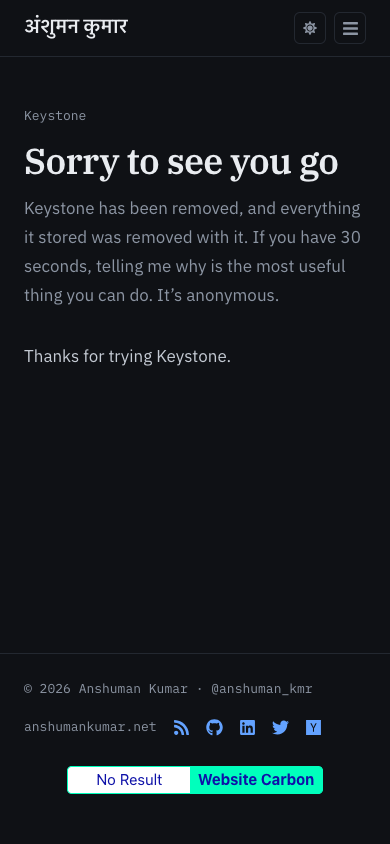
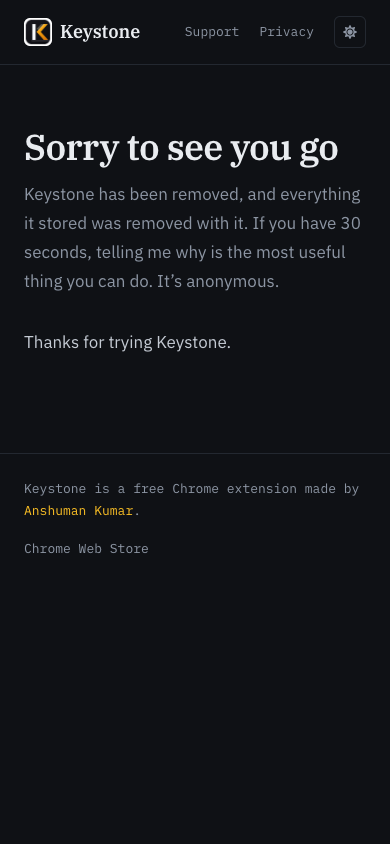
feat(keystone): make the Keystone pages a mini-site of their own
/keystone/support/, /keystone/bye/ and /privacy/keystone/ now use Keystone's own
header (logo, Support, Privacy, theme toggle), footer and amber accent, and the
blog's header and footer are hidden there. Nothing on the blog links to them, so
anshumankumar.net still opens to the blog. Titles read "… · Keystone by
Anshuman Kumar". Screenshots refreshed.

diff --git a/blog/next-blog/components/keystone/keystone-shell.tsx b/blog/next-blog/components/keystone/keystone-shell.tsx
@@ -1,0 +1,39 @@
+import type { ReactNode } from 'react';
+import Link from 'next/link';
+import { ThemeToggle } from '@/components/theme-toggle';
+import { CWS_URL, TIP_URL, hasTipLink } from '@/lib/keystone';
+import { PERSON, SITE_URL } from '@/lib/identity';
+
+/** Keystone's own header and footer, so its pages read as Keystone's site rather than blog pages. */
+export function KeystoneShell({ children }: { children: ReactNode }) {
+  return (
+    <div className="keystone-site flex flex-1 flex-col">
+      <header className="border-b border-border-hairline">
+        <nav className="page-container !py-4 flex items-center justify-between gap-4" aria-label="Keystone">
+          <Link href="/keystone/support/" className="flex items-center gap-2 no-underline" style={{ color: 'var(--text-heading)' }}>
+            {/* eslint-disable-next-line @next/next/no-img-element -- static export, tiny fixed-size icon */}
+            <img src="/keystone/icon128.png" alt="" width={28} height={28} className="rounded-md" />
+            <span className="text-lg font-semibold" style={{ fontFamily: 'var(--font-display)' }}>Keystone</span>
+          </Link>
+          <div className="flex items-center gap-5">
+            <Link href="/keystone/support/" className="meta">Support</Link>
+            <Link href="/privacy/keystone/" className="meta">Privacy</Link>
+            <ThemeToggle />
+          </div>
+        </nav>
+      </header>
+      <div className="flex-1">{children}</div>
+      <footer className="mt-12 border-t border-border-hairline">
+        <div className="page-container !py-6 flex items-center justify-between gap-4 flex-wrap">
+          <p className="meta">
+            Keystone is a free Chrome extension made by <a href={SITE_URL}>{PERSON.name}</a>.
+          </p>
+          <div className="flex items-center gap-4 flex-wrap">
+            {CWS_URL ? <a href={CWS_URL} className="meta" target="_blank" rel="noopener noreferrer">Chrome Web Store</a> : null}
+            {hasTipLink ? <a href={TIP_URL} className="meta" target="_blank" rel="noopener noreferrer">Buy me a coffee</a> : null}
+          </div>
+        </div>
+      </footer>
+    </div>
+  );
+}

diff --git a/blog/next-blog/app/keystone/support/page.tsx b/blog/next-blog/app/keystone/support/page.tsx
@@ -1,11 +1,10 @@
-import Link from 'next/link';
 import { GoogleFormEmbed } from '@/components/keystone/google-form-embed';
 import { pageMetadata } from '@/lib/metadata';
 import { FEEDBACK_FORM } from '@/lib/keystone';
 import { TipJar } from '@/components/keystone/tip-jar';
 
 export const metadata = pageMetadata(
-  'Keystone support and feedback',
+  'Support and feedback',
   'Report a bug, flag a wrong nudge, or suggest an idea for the Keystone Chrome extension.',
   '/keystone/support/',
 );
@@ -13,8 +12,7 @@ export const metadata = pageMetadata(
 export default function KeystoneSupportPage() {
   return (
     <div className="page-container">
-      <p className="meta">Keystone · <Link href="/privacy/keystone/">Privacy policy</Link></p>
-      <h1 className="mt-3">Support and feedback</h1>
+            <h1 className="mt-3">Support and feedback</h1>
       <p className="page-intro">
         Report a bug, tell me about a nudge that got it wrong, or suggest an idea. You don’t need to leave your email unless you want a reply.
       </p>

diff --git a/blog/next-blog/app/layout.tsx b/blog/next-blog/app/layout.tsx
@@ -3,6 +3,7 @@ import { IBM_Plex_Serif, IBM_Plex_Sans, IBM_Plex_Mono, IBM_Plex_Sans_Devanagari 
 import Header from "@/components/header"
 import Footer from "@/components/footer"
 import { ThemeProvider } from "@/components/theme-provider"
+import { BlogOnly } from "@/components/blog-only"
 import "./globals.css"
 import { HOME_TITLE, SITE_DESCRIPTION, SITE_TITLE, SITE_URL, pageMetadata } from "@/lib/metadata"
 import { PERSON } from "@/lib/identity"
@@ -63,11 +64,11 @@ export default function RootLayout({
           <a href="#main-content" className="skip-link">
             Skip to content
           </a>
-          <Header />
+          <BlogOnly><Header /></BlogOnly>
           <main id="main-content" className="flex-1">
             {children}
           </main>
-          <Footer />
+          <BlogOnly><Footer /></BlogOnly>
         </ThemeProvider>
       </body>
     </html>

diff --git a/blog/next-blog/app/globals.css b/blog/next-blog/app/globals.css
@@ -599,3 +599,22 @@
 .policy-body > * + * { margin-top: var(--space-4); }
 .policy-body ul { list-style: disc; padding-inline-start: 1.25rem; }
 .policy-body li + li { margin-top: var(--space-2); }
+
+/* The Keystone mini-site uses Keystone's amber instead of the blog's blue. */
+.keystone-site {
+  --accent: #b45309;
+  --accent-strong: #92400e;
+  --accent-soft: rgba(217, 119, 6, 0.08);
+  --accent-tint: rgba(217, 119, 6, 0.16);
+  /* --link is resolved on :root, so it has to be set here too. */
+  --link: #b45309;
+  --link-hover: #92400e;
+}
+.dark .keystone-site {
+  --accent: #fbbf24;
+  --accent-strong: #f59e0b;
+  --accent-soft: rgba(251, 191, 36, 0.1);
+  --accent-tint: rgba(251, 191, 36, 0.18);
+  --link: #fbbf24;
+  --link-hover: #fcd34d;
+}

diff --git a/blog/next-blog/lib/keystone.ts b/blog/next-blog/lib/keystone.ts
@@ -61,3 +61,13 @@ export function embeddedFormUrl(form: GoogleForm, query: URLSearchParams): strin
   if (prefilled) url.searchParams.set('usp', 'pp_url');
   return url.toString();
 }
+
+/**
+ * The Keystone pages are a small site of their own inside the blog: they get
+ * Keystone's own header and footer, and the blog's are hidden there. The
+ * privacy page keeps its old address because the Web Store listing links to it.
+ */
+export function isKeystonePath(pathname: string | null | undefined): boolean {
+  if (!pathname) return false;
+  return /^\/keystone(\/|$)/.test(pathname) || /^\/privacy\/keystone(\/|$)/.test(pathname);
+}

diff --git a/blog/next-blog/app/privacy/keystone/page.tsx b/blog/next-blog/app/privacy/keystone/page.tsx
@@ -1,8 +1,11 @@
 import type { Metadata } from "next"
 import { pageMetadata } from "@/lib/metadata"
+import { PERSON } from "@/lib/identity"
 
 export const metadata: Metadata = {
-  ...pageMetadata("Keystone Privacy Policy", "Privacy policy for the Keystone browser extension.", "/privacy/keystone/"),
+  ...pageMetadata("Privacy policy", "Privacy policy for the Keystone browser extension.", "/privacy/keystone/"),
+  // Same folder as its layout, so the layout's title template doesn't reach it.
+  title: { absolute: `Privacy policy · Keystone by ${PERSON.name}` },
   robots: {
     index: false,
     follow: false,

diff --git a/blog/next-blog/app/keystone/layout.tsx b/blog/next-blog/app/keystone/layout.tsx
@@ -1,0 +1,14 @@
+import type { Metadata } from 'next';
+import type { ReactNode } from 'react';
+import { KeystoneShell } from '@/components/keystone/keystone-shell';
+import { PERSON } from '@/lib/identity';
+
+export const metadata: Metadata = {
+  // The blog's SEO check requires the author's name in every indexed title.
+  title: { default: `Keystone by ${PERSON.name}`, template: `%s · Keystone by ${PERSON.name}` },
+  icons: { icon: '/keystone/icon128.png' },
+};
+
+export default function KeystoneLayout({ children }: { children: ReactNode }) {
+  return <KeystoneShell>{children}</KeystoneShell>;
+}

diff --git a/blog/next-blog/app/privacy/keystone/layout.tsx b/blog/next-blog/app/privacy/keystone/layout.tsx
@@ -1,0 +1,14 @@
+import type { Metadata } from 'next';
+import type { ReactNode } from 'react';
+import { KeystoneShell } from '@/components/keystone/keystone-shell';
+import { PERSON } from '@/lib/identity';
+
+export const metadata: Metadata = {
+  // The blog's SEO check requires the author's name in every indexed title.
+  title: { default: `Keystone by ${PERSON.name}`, template: `%s · Keystone by ${PERSON.name}` },
+  icons: { icon: '/keystone/icon128.png' },
+};
+
+export default function KeystoneLayout({ children }: { children: ReactNode }) {
+  return <KeystoneShell>{children}</KeystoneShell>;
+}

diff --git a/blog/next-blog/tests/keystone.test.ts b/blog/next-blog/tests/keystone.test.ts
@@ -1,0 +1,12 @@
+import assert from 'node:assert/strict';
+import test from 'node:test';
+import { isKeystonePath } from '../lib/keystone';
+
+test('only the Keystone pages get the Keystone layout; the blog keeps its own', () => {
+  for (const path of ['/keystone', '/keystone/', '/keystone/support/', '/keystone/bye/', '/privacy/keystone/']) {
+    assert.equal(isKeystonePath(path), true, path);
+  }
+  for (const path of ['/', '/blogs/', '/about/', '/privacy/', '/keystones/', '/article/2026-10-03/keystone/', null, undefined]) {
+    assert.equal(isKeystonePath(path), false, String(path));
+  }
+});

diff --git a/blog/next-blog/app/keystone/bye/page.tsx b/blog/next-blog/app/keystone/bye/page.tsx
@@ -13,7 +13,6 @@ export const metadata: Metadata = {
 export default function KeystoneByePage() {
   return (
     <div className="page-container">
-      <p className="meta">Keystone</p>
       <h1 className="mt-3">Sorry to see you go</h1>
       <p className="page-intro">
         Keystone has been removed, and everything it stored was removed with it. If you have 30 seconds, telling me why is the most useful thing you can do. It’s anonymous.

diff --git a/blog/next-blog/components/blog-only.tsx b/blog/next-blog/components/blog-only.tsx
@@ -1,0 +1,10 @@
+"use client"
+
+import type { ReactNode } from "react"
+import { usePathname } from "next/navigation"
+import { isKeystonePath } from "@/lib/keystone"
+
+/** Renders the blog's own chrome (header, footer) everywhere except the Keystone pages. */
+export function BlogOnly({ children }: { children: ReactNode }) {
+  return isKeystonePath(usePathname()) ? null : <>{children}</>
+}
